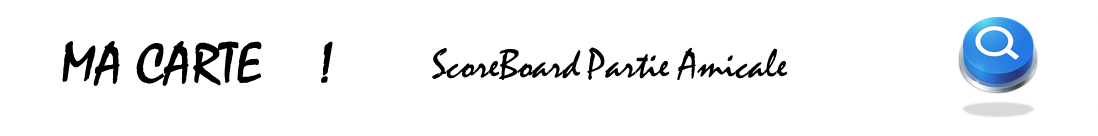
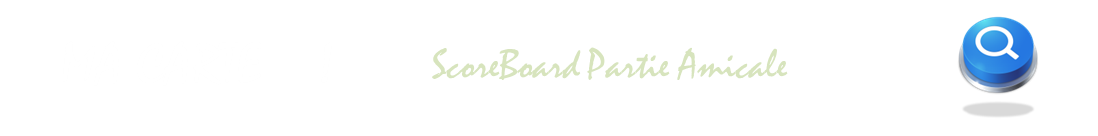
Add files via upload

Changed region(s): [[0.3716, 0.3529, 0.7432, 0.5882], [0.031, 0.2941, 0.2477, 0.6176], [0.2787, 0.3235, 0.3097, 0.6176]]

diff --git a/formamicale.html b/formamicale.html
@@ -45,12 +45,10 @@
             <div class="menutop">
                 <ul>
 
-                    <li class="boutonm" > <img style="width: 100%; height: auto; " src="./design_files/images/gifgolf.gif" alt="image"> </li>
-
-                    <li class="boutonm" > <img style="width: 100%; height: auto; margin-top: -24px; " src="./design_files/images/barjaune.png" alt="image"> </li>
+                    <li class="boutonm" > <img style="width: 100%; height: auto; " src="./design_files/images/fondinscription.gif" alt="image"> </li>
 
                     <li class="boutonm"><a style=" color: rgb(255, 255, 255); font-size: 7px; font-weight: 300; text-align: center;
-                        width: 100%; font-family: 'Poppins', sans-serif;">By Kevdesign</a>
+                        width: 100%; padding-top: 70px; padding-bottom: 20px; font-family: 'Poppins', sans-serif;">By Kevdesign</a>
                     </li>
 
 
@@ -127,9 +125,9 @@
                     
 
                     <div class="form-group container-login100-form-btn" style="margin-bottom: 20px;">
-                        <button id="valider" style="border-radius: 6px; margin-top: 20px; background-color: rgb(2, 107, 16);
+                        <button id="valider" style="border-radius: 6px; margin-top: 20px; background-color: rgb(43, 43, 43);
                          color: rgb(255, 255, 255);
-                              box-shadow: -1px 1px 9px #838109d2; " type="button" onclick="send()">
+                              box-shadow: -1px 1px 9px #03a700e2; " type="button" onclick="send()">
                             C'est parti 
                             <i class="zmdi zmdi-arrow-right"></i>
                         </button>

diff --git a/home.html b/home.html
@@ -47,13 +47,12 @@
             <div class="menutop">
                 <ul>
 
-                    <li class="boutonm" > <img style="width: 100%; height: auto; " src="./design_files/images/gifgolf.gif" alt="image"> </li>
+                    <li class="boutonm" > <img style="width: 100%; height: auto; " src="./design_files/images/fondinscription.gif" alt="image"> </li>
 
-                    <li class="boutonm" > <img style="width: 100%; height: auto; margin-top: -24px; " src="./design_files/images/barjaune.png" alt="image"> </li>
-
-                    <li class="boutonm"><a style="font-size: 7px; font-weight: 300; text-align: center;
-                        color: rgb(255, 255, 255); width: 100%; font-family: 'Poppins', sans-serif;">By Kevdesign</a>
+                    <li class="boutonm"><a style=" color: rgb(255, 255, 255); font-size: 7px; font-weight: 300; text-align: center;
+                        width: 100%; padding-top: 70px; padding-bottom: 20px; font-family: 'Poppins', sans-serif;">By Kevdesign</a>
                     </li>
+
                     
                     <li class="boutonm" onclick="opentk();" >
                          <img style="width: 94%; margin-top: 2px; margin-left: 3%; height: auto;" src="./design_files/images/boxa.png" alt="image">

diff --git a/amicalscore.html b/amicalscore.html
@@ -41,13 +41,12 @@
             <div class="menutop">
                 <ul>
 
-                    <li class="boutonm" > <img style="width: 100%; height: auto; " src="./design_files/images/gifgolf.gif" alt="image"> </li>
+                    <li class="boutonm" > <img style="width: 100%; height: auto; " src="./design_files/images/fondinscription.gif" alt="image"> </li>
 
-                    <li class="boutonm" > <img style="width: 100%; height: auto; margin-top: -24px; " src="./design_files/images/barjaune.png" alt="image"> </li>
-                    
                     <li class="boutonm"><a style=" color: rgb(255, 255, 255); font-size: 7px; font-weight: 300; text-align: center;
-                        width: 100%; font-family: 'Poppins', sans-serif;">By Kevdesign</a>
+                        width: 100%; padding-top: 70px; padding-bottom: 20px; font-family: 'Poppins', sans-serif;">By Kevdesign</a>
                     </li>
+
 
                     <li class="boutonm" onclick="openhome();" >
                         <img style="width: 94%; margin-top: 2px; margin-left: 3%; height: auto;" src="./design_files/images/boxd.png" alt="image">

diff --git a/design_files/css/style.css b/design_files/css/style.css
@@ -482,7 +482,7 @@ header {
     z-index: 900;
     top: 0; left:0; right: 0;
     border-bottom-right-radius: 20px;
-    background-color: rgb(241, 197, 0);
+    background-color: rgb(70, 169, 0);
     display: none;
   }
   header .menutop ul li {
